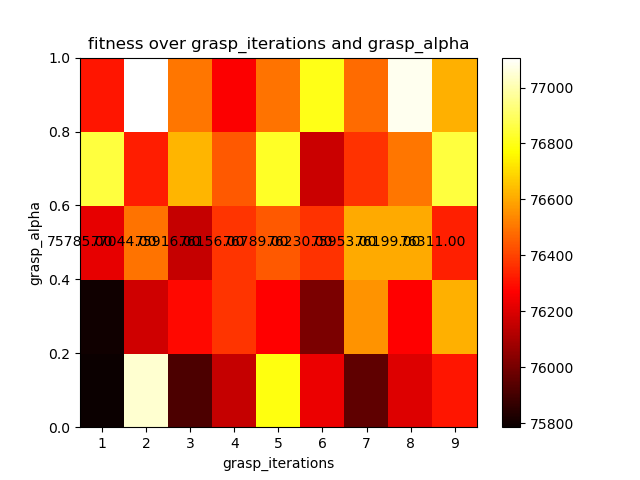
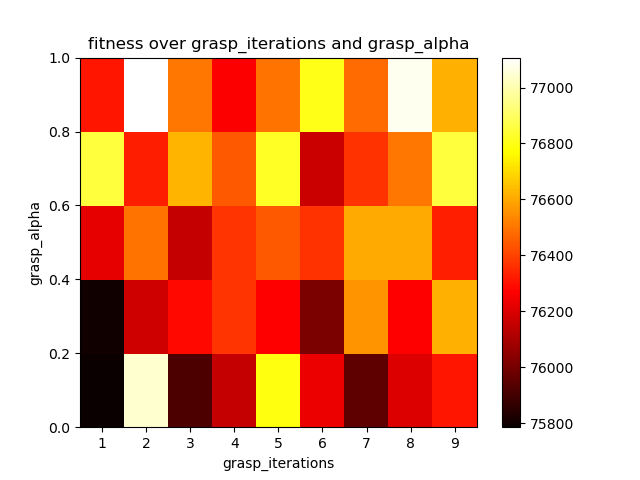
change pic

Changed region(s): [[0.0938, 0.4688, 0.7188, 0.5312]]

diff --git a/lib/algorithms.py b/lib/algorithms.py
@@ -571,12 +571,10 @@ def hybrid_algorithm(
         for subspace in subspaces:
             for _ in range(grasp_iterations):
                 grasp_solution = grasp(subspace, grasp_alpha)
-                # grasp_solution = crossover(grasp_solution, crossover_rate)
-                # grasp_solution = mutation(grasp_solution, mutation_rate)
                 new_population.append(grasp_solution)
                 
 
-        # # Perform crossover and mutation within the new population
+        # Perform crossover and mutation within the new population
         if new_population:
             new_population = crossover(new_population, crossover_rate)
             new_population = mutation(new_population, mutation_rate)

diff --git a/lib/utils.py b/lib/utils.py
@@ -27,9 +27,9 @@ def plot_heatmap(x, y, z, x_label, y_label, z_label, graph_name):
     ax.set_ylabel(y_label)
     ax.set_title(graph_name)
     # Afficher les valeurs dans les cellules
-    for i in range(len(y)):
-        for j in range(len(x)):
-            ax.text(j+0.5, i+0.5, f'{Z[i, j]:.2f}', ha='center', va='center', color='black')
+    # for i in range(len(y)):
+    #     for j in range(len(x)):
+    #         ax.text(j+0.5, i+0.5, f'{Z[i, j]:.2f}', ha='center', va='center', color='black')
     
     # fig.tight_layout(pad=1.0)
     # Afficher le heatmap

diff --git a/main.py b/main.py
@@ -220,8 +220,8 @@ if __name__ == "__main__":
 
     # fine_tuning(items, bin_capacity)
     # fitnesses_over_population_size_num_generations(items, bin_capacity)
-    # fitnesses_over_grasp_iterations_grasp_alpha(items, bin_capacity)
-    test_hybridation(items, bin_capacity)
+    fitnesses_over_grasp_iterations_grasp_alpha(items, bin_capacity)
+    #test_hybridation(items, bin_capacity)
 
 
 
